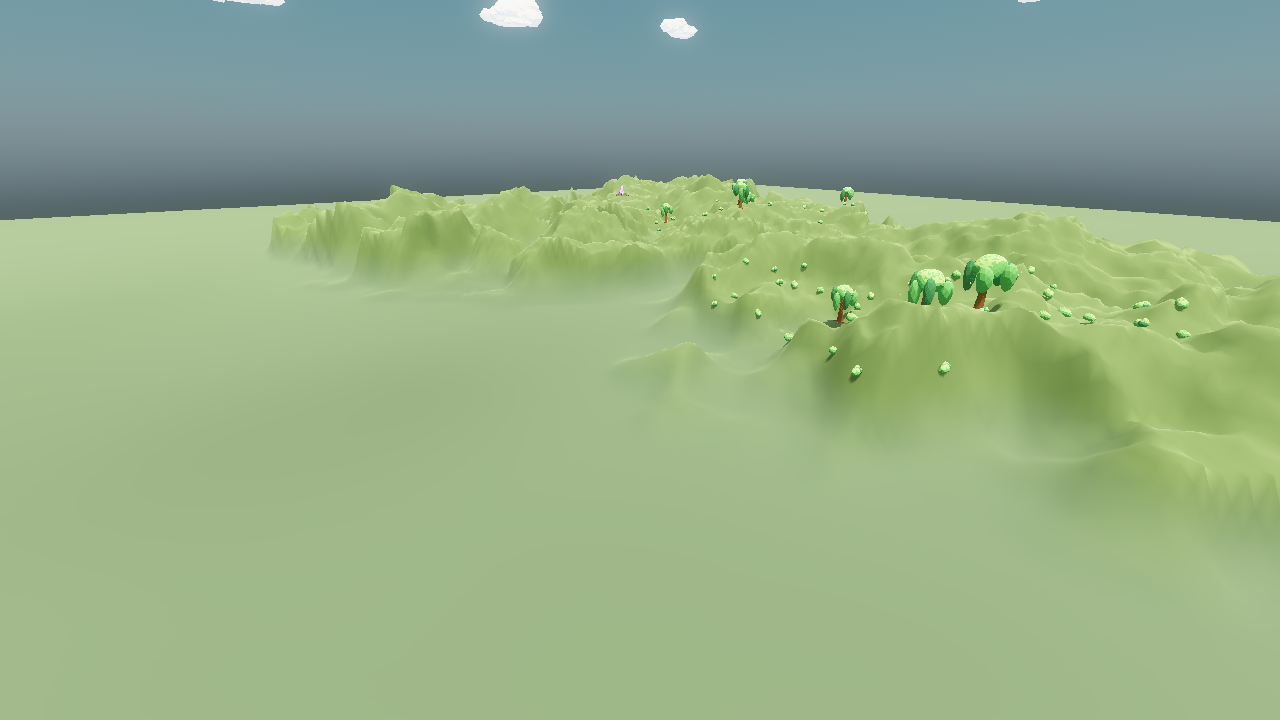
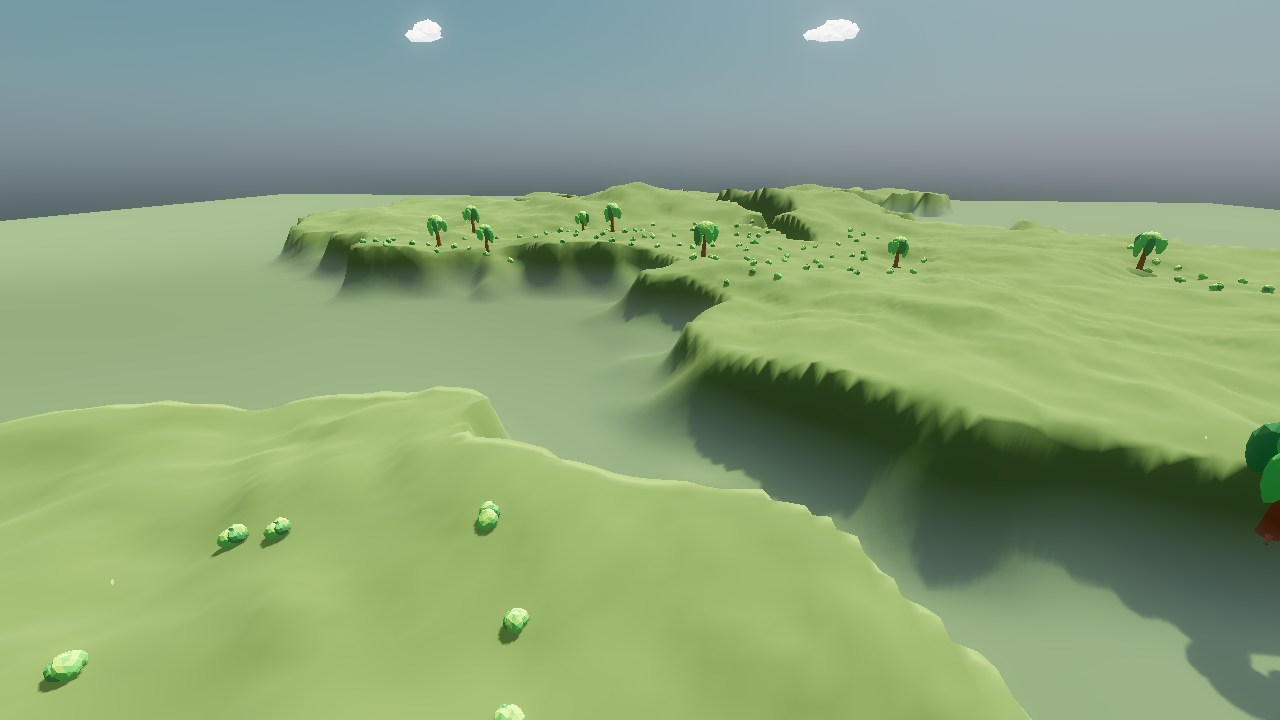
4.18/D-184 second pass: flat plateau + 3-5 placed hills, per Sequoyah's verdict
"Still wayyy too steep... like 3-5 hills on the whole island" is a structure,
not an amplitude: BASE_NOISE_WEIGHT 0.25 damps the fBm interior to ~1 m of
undulation and IslandHeightmap.hills() places 3-5 seeded smooth mounds
(26-52 m radius, 5-8 m lift, maxf-merged, lobes-style integer mixing) into the
continent in shape_into(), so biomes/ridges/scatter/nav all see them as
ordinary ground. Ridge window raised to 0.95-1.30 x HEIGHT_SCALE so cresting
touches only hill tops. terrain/biome/poi/procedural_world checks 0 failures,
world_contract_check PASS both arms; fresh renders committed.

diff --git a/docs/DECISIONS.md b/docs/DECISIONS.md
@@ -5836,3 +5836,12 @@ reference. Applied in world/gen/island_heightmap.gd by quill5fa5c7.
 **Would change my mind:** Sequoyah walking a retuned island (a real 4.18 walk, not renders) and
 asking for more verticality back — the tune is three constants, so reversal is cheap and needs no
 structural change.
+
+**2026-08-20 second pass (same day, his next verdict):** "still wayyy too steep on the hills, im
+thinking like 3-5 hills on the whole island." Countable hills is a structure, not an amplitude, so
+the rolling-fBm interior is gone: the continent is now a near-flat plateau (`BASE_NOISE_WEIGHT
+0.25` damps the noise to ~±1 m of undulation) plus **3–5 PLACED seeded hills**
+(`IslandHeightmap.hills()` — smooth radial mounds, 26–52 m radius, 5–8 m lift, `maxf`-merged,
+placed by the same integer-mixing recipe as the lobes). The ridge window moved above the plateau
+(RIDGE_MASK 0.95–1.30) so cresting only touches hill tops. The reversal is still cheap: raise
+`BASE_NOISE_WEIGHT` back toward 1.0 and the rolling interior returns.

diff --git a/docs/DELEGATION.md b/docs/DELEGATION.md
@@ -94,6 +94,15 @@ lobed island with the river still cutting through; the spawn view is a sprintabl
 **If a later walk wants more verticality back**, D-184 names the reversal: it is those three
 constants, cheap to move.
 
+**Second pass, same day.** His next verdict: "still wayyy too steep… like 3-5 hills on the whole
+island." That is a STRUCTURE, so the fBm interior is gone: `BASE_NOISE_WEIGHT 0.25` flattens the
+plateau to ~±1 m and `IslandHeightmap.hills()` places 3–5 seeded smooth mounds (26–52 m radius,
+5–8 m lift, `maxf`-merged, lobes-style integer mixing) added into `raw_continent` in
+`shape_into()` — so biomes, ridge mask, scatter and the navmesh all see them as ordinary
+continent. Ridge window moved to 0.95–1.30 x HEIGHT_SCALE: cresting only on hill tops, the
+plateau stays clean. Same check suite green; fresh renders (seed 1856316070) in
+`assets/audit/terrain/`.
+
 
 ### 2026-08-20 — 4.19 DONE: the shipped map is procedural. Press Play and you get a generated island (quill5fa5c7)
 
